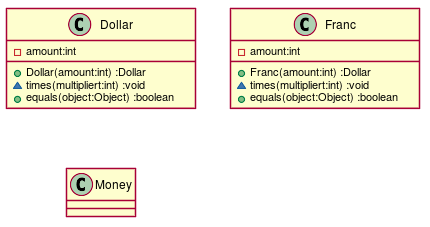
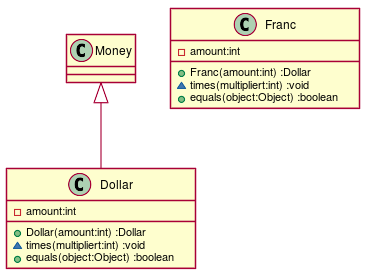
第６章 テスト不足に気づいたら Step3

diff --git a/src/main/java/tdd/money/Dollar.java b/src/main/java/tdd/money/Dollar.java
@@ -1,6 +1,6 @@
 package tdd.money;
 
-class Dollar {
+class Dollar extends Money {
     private int amount;
     Dollar(int amount){
         this.amount = amount;

diff --git a/docs/TDD.md b/docs/TDD.md
@@ -56,7 +56,7 @@
 ### クラス図
   
 
-![](./assets/0285dfa24ee25b18e00bb369b57da6820.png?0.5734140931551843)  
+![](./assets/0285dfa24ee25b18e00bb369b57da6820.png?0.08881628040083167)  
 ### シーケンス図
   
   
@@ -95,7 +95,7 @@ public class MoneyTest {
 ```java
 package tdd.money;
   
-class Dollar {
+class Dollar extends Money {
     private int amount;
     Dollar(int amount){
         this.amount = amount;

diff --git a/docs/src/TDD.md b/docs/src/TDD.md
@@ -72,6 +72,7 @@ class Franc {
 class Money {
 
 }
+Money <|-- Dollar
 ```
 ### シーケンス図
 
